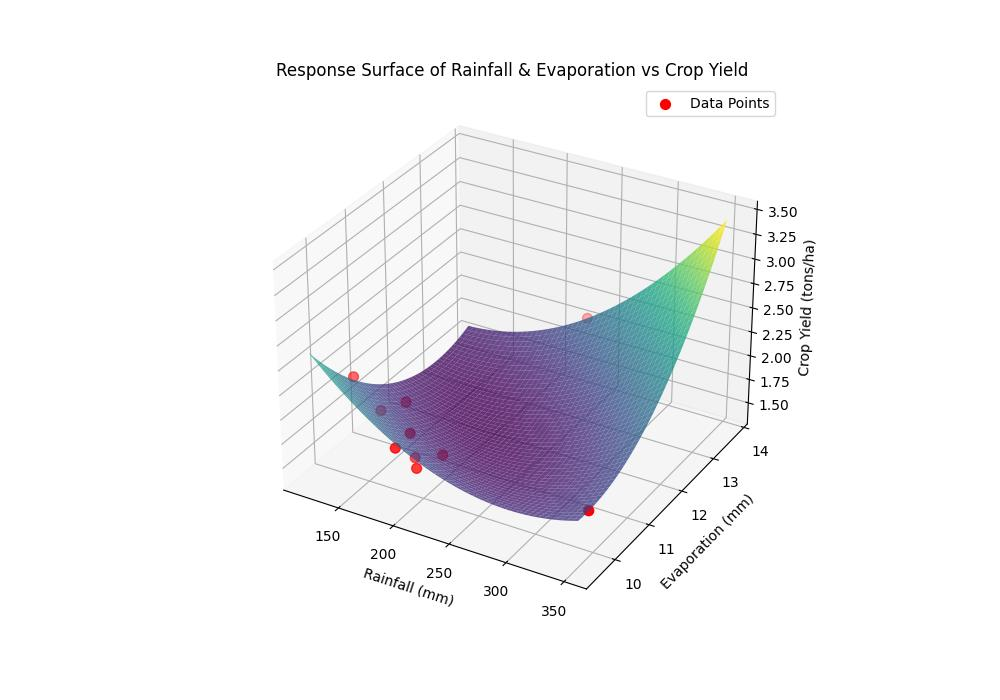
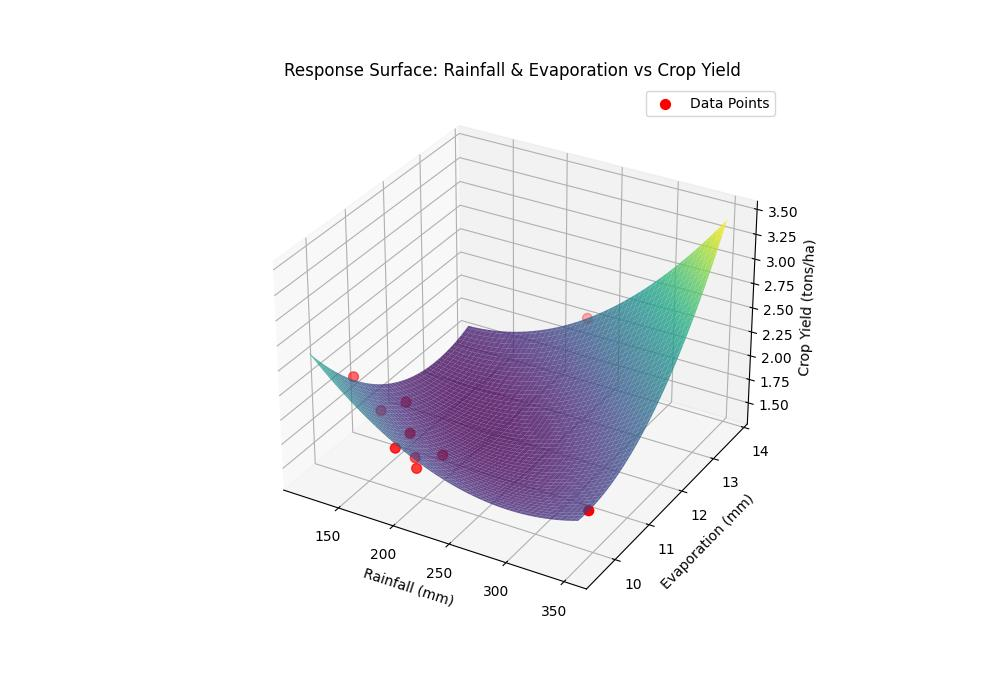
good

Changed region(s): [[0.403, 0.48, 0.62, 0.69], [0.279, 0.09, 0.744, 0.12]]

diff --git a/con.py b/con.py
@@ -1,0 +1,64 @@
+import numpy as np
+import matplotlib.pyplot as plt
+from sklearn.preprocessing import PolynomialFeatures
+from sklearn.linear_model import LinearRegression
+from mpl_toolkits.mplot3d import Axes3D
+
+# Dataset
+rainfall = np.array([351.9, 229.7, 201, 192.6, 201, 186, 201, 132.1, 162.9, 116.2])
+evaporation = np.array([9.8, 13.8, 9.65, 9.5, 10.5, 10.2, 9.8, 10.85, 10.65, 10.6])
+crop_yield = np.array([1.78, 2.04, 2.07, 1.94, 1.56, 1.58, 1.66, 1.67, 1.93, 2.05])
+
+# Prepare input features (Rainfall & Evaporation)
+X = np.column_stack((rainfall, evaporation))
+
+# Create polynomial features (degree 2 for smooth surface)
+poly = PolynomialFeatures(degree=2)
+X_poly = poly.fit_transform(X)
+
+# Fit regression model
+model = LinearRegression()
+model.fit(X_poly, crop_yield)
+
+# Create grid for plotting
+rain_range = np.linspace(min(rainfall), max(rainfall), 100)
+evap_range = np.linspace(min(evaporation), max(evaporation), 100)
+R, E = np.meshgrid(rain_range, evap_range)
+
+# Predict crop yield on the grid
+X_grid = np.column_stack((R.ravel(), E.ravel()))
+X_grid_poly = poly.transform(X_grid)
+Y_pred = model.predict(X_grid_poly).reshape(R.shape)
+
+# ----- 3D Response Surface Plot -----
+fig = plt.figure(figsize=(10, 7))
+ax = fig.add_subplot(111, projection='3d')
+ax.plot_surface(R, E, Y_pred, cmap='viridis', alpha=0.8)
+ax.scatter(rainfall, evaporation, crop_yield, color='r', s=50, label="Data Points")
+
+ax.set_xlabel("Rainfall (mm)")
+ax.set_ylabel("Evaporation (mm)")
+ax.set_zlabel("Crop Yield (tons/ha)")
+ax.set_title("Response Surface: Rainfall & Evaporation vs Crop Yield")
+ax.legend()
+
+plt.savefig("response_surface_rain_evap_crop_yield.jpeg", format="jpeg")
+plt.close()
+
+# ----- 2D Contour Plot with Labels -----
+plt.figure(figsize=(8, 6))
+contour = plt.contourf(R, E, Y_pred, levels=20, cmap='viridis')
+plt.scatter(rainfall, evaporation, c=crop_yield, cmap='Reds', edgecolor='k', s=80, label="Data Points")
+
+# Add labels for actual crop yield values
+for x, y, z in zip(rainfall, evaporation, crop_yield):
+    plt.text(x, y, f"{z:.2f}", fontsize=9, ha='center', va='center', color='white', weight='bold')
+
+plt.colorbar(contour, label="Predicted Crop Yield (tons/ha)")
+plt.xlabel("Rainfall (mm)")
+plt.ylabel("Evaporation (mm)")
+plt.title("Contour Plot: Rainfall & Evaporation vs Crop Yield")
+plt.legend()
+
+plt.savefig("contour_rain_evap_crop_yield.jpeg", format="jpeg")
+plt.show()
